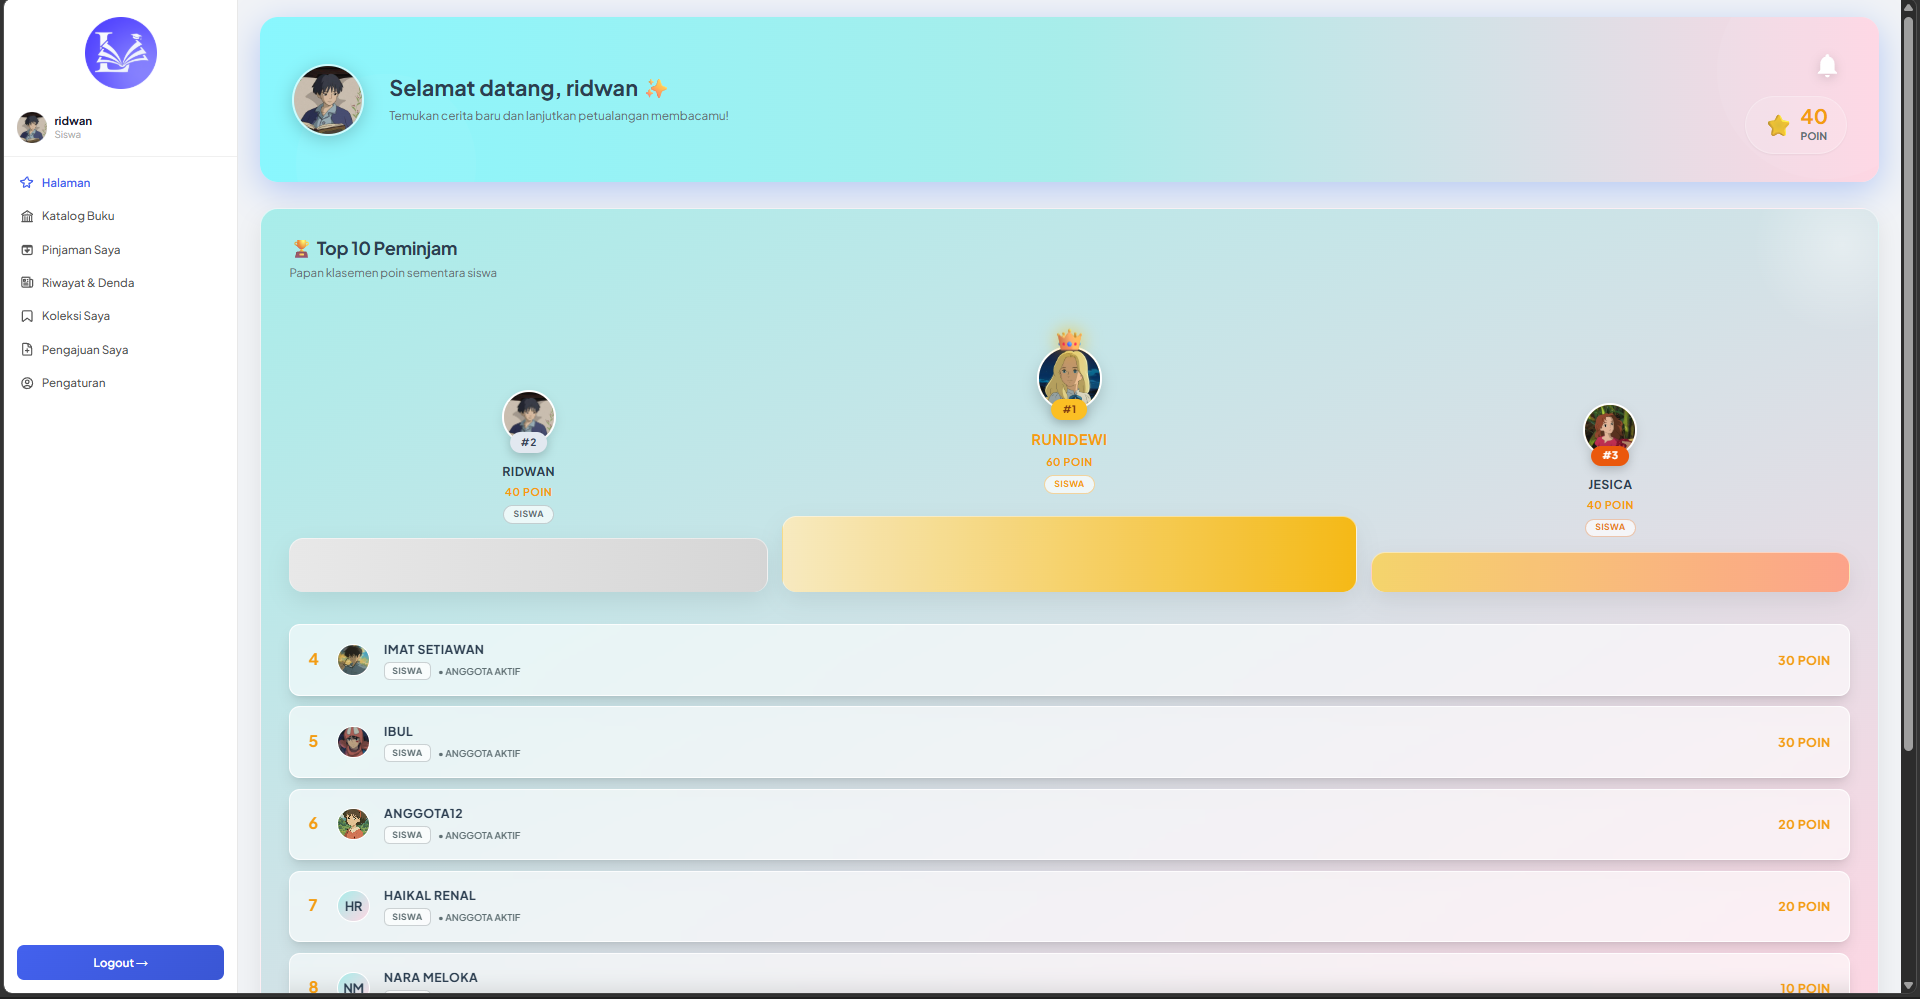
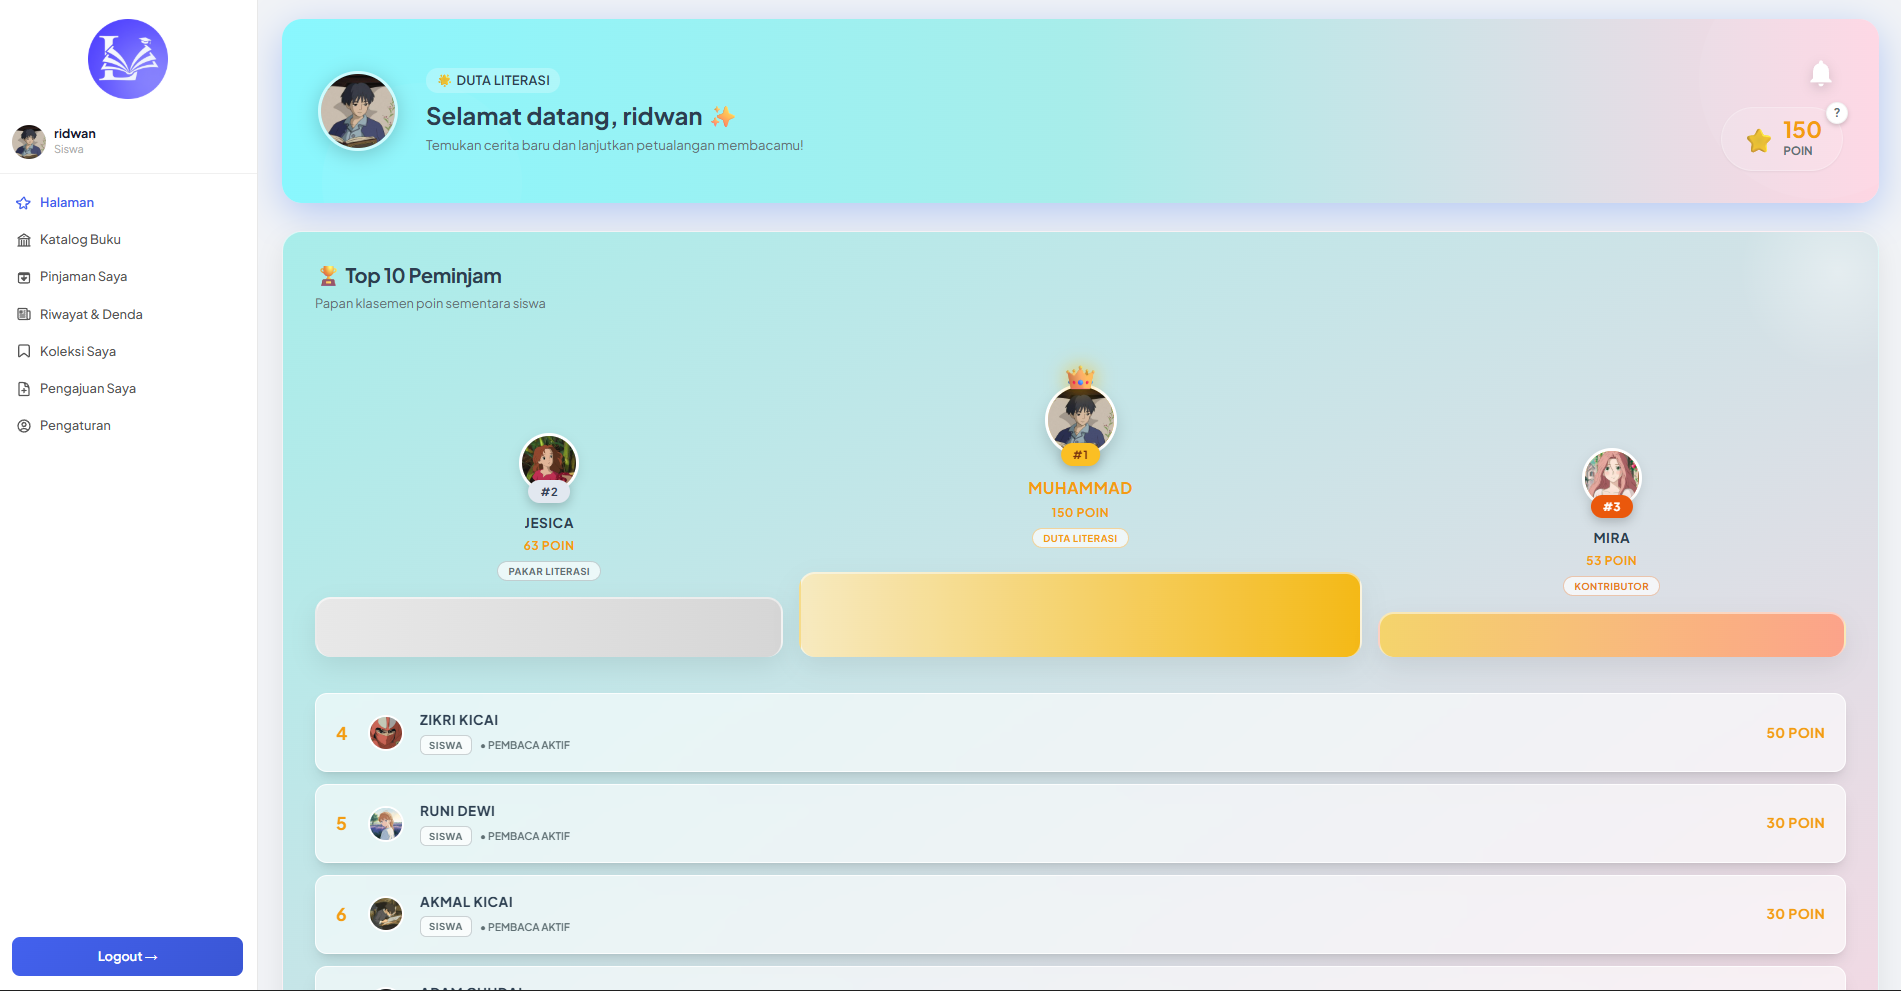
update readme.md

Changed region(s): [[0.0, 0.0, 1.0, 0.999], [0.0, 0.0908, 0.0621, 0.4541], [0.031, 0.0303, 0.0931, 0.1211]]

diff --git a/tmp_verify.php b/tmp_verify.php
@@ -1,0 +1,18 @@
+<?php
+require __DIR__ . '/vendor/autoload.php';
+$app = require_once __DIR__ . '/bootstrap/app.php';
+$app->make('Illuminate\Contracts\Console\Kernel')->bootstrap();
+
+use App\Models\User;
+use App\Models\Borrowing;
+use App\Models\Fine;
+
+$user = User::where('username', 'siswa9')->first();
+$borrowing = Borrowing::find(72);
+$fines = Fine::where('borrowing_id', 72)->get();
+
+echo "Borrowing 72 - Deadline: {$borrowing->deadline} | Status: {$borrowing->status}\n";
+echo "Total fines pada borrowing 72: " . $fines->count() . "\n";
+foreach($fines as $f) {
+    echo "  Fine ID: {$f->id} | Amount: Rp " . number_format($f->amount) . " | Status: {$f->payment_status}\n";
+}

diff --git a/README.md b/README.md
@@ -16,10 +16,10 @@ Sistem ini mensyaratkan tiga jenis hak akses untuk menjaga privasi data dan mela
 **Deskripsi:** Pusat kendali tingkat tertinggi yang diperuntukkan bagi manajer perpustakaan atau staf teknologi informasi sekolah.
 **Keunggulan:** Menyediakan kontrol penuh dan visualisasi data statistik yang komprehensif. Admin dapat mengelola persetujuan KYC siswa (verifikasi anggota), manajemen inventaris buku secara terperinci, mengekspor laporan kinerja ke format PDF menggunakan DomPDF, serta mengelola akses seluruh staf dan member.
 
-### 3. Dashboard Petugas Perpustakaan
-<img src="public/images/readme.md image/dashboard-petugas.png" alt="Dashboard Petugas Perpustakaan" width="100%">
-**Deskripsi:** Ruang kerja khusus untuk pustakawan dalam menangani urusan operasional sirkulasi fisik perpustakaan dari hari ke hari.
-**Keunggulan:** Menyajikan tabel informasi real-time mengenai permintaan peminjaman dan jadwal pengembalian. Petugas dipermudah dengan automasi sistem kalkulasi denda keterlambatan baku, serta pencatatan sirkulasi pergerakan inventaris yang transparan dan akurat.
+### 3. Dashboard Penjaga Perpustakaan
+<img src="public/images/readme.md image/dashboard-petugas.png" alt="Dashboard Penjaga Perpustakaan" width="100%">
+**Deskripsi:** Ruang kerja khusus untuk penjaga dalam menangani urusan operasional sirkulasi fisik perpustakaan dari hari ke hari.
+**Keunggulan:** Menyajikan tabel informasi real-time mengenai permintaan peminjaman dan jadwal pengembalian. Penjaga dipermudah dengan automasi sistem kalkulasi denda keterlambatan baku, serta pencatatan sirkulasi pergerakan inventaris yang transparan dan akurat.
 
 ### 4. Dashboard Siswa (Member)
 <img src="public/images/readme.md image/dashboard-siswa.png" alt="Dashboard Siswa" width="100%">
@@ -30,7 +30,7 @@ Sistem ini mensyaratkan tiga jenis hak akses untuk menjaga privasi data dan mela
 
 ## Fitur-fitur Lengkap Aplikasi
 
-Aplikasi LibSchool membagi rentetan fiturnya menjadi 3 pilar jenis pengguna (Admin, Petugas, dan Siswa). Berikut adalah penjelasan santai dan mudah dipahami untuk semua fitur yang ada:
+Aplikasi LibSchool membagi rentetan fiturnya menjadi 3 pilar jenis pengguna (Admin, Penjaga, dan Siswa). Berikut adalah penjelasan santai dan mudah dipahami untuk semua fitur yang ada:
 
 ### 1. Fitur Umum & Keamanan
 *   **Login & Register Mudah**: Pengguna bisa login dengan aman, siswa baru bisa mendaftar akun sekolah secara mandiri, dan ada fitur *Reset Password* via email kalau sewaktu-waktu lupa sandi.
@@ -38,33 +38,32 @@ Aplikasi LibSchool membagi rentetan fiturnya menjadi 3 pilar jenis pengguna (Adm
 *   **Pembatasan Akses (Aman dari Orang Iseng)**: Fitur keamanan kuat yang mencegah siswa menyusup ke halaman Admin, begitupun sebaliknya. Setiap orang hanya bisa melihat halaman yang memang sesuai porsinya.
 
 ### 2. Fitur Khusus Siswa
-*   **Dasbor Pintar**: Tampilan beranda yang langsung ngasih tahu siswa info penting, seperti "Berapa buku yang sedang saya pinjam?" dan "Berapa hari lagi harus dikembalikan?". Sistem juga otomatis memantau hitungan denda telat secara langsung!
-*   **Katalog Buku Seru**: Tempat siswa bebas mencari dan melihat koleksi buku. Ada fitur filter canggih buat nemuin buku yang persis sedang dicari.
-*   **Papan Peringkat & Gelar Poin (Gamifikasi)**: Bersaing literasi dengan interaktif! Sistem memberikan hadiah Poin bagi siswa yang patuh mengembalikan buku tepat waktu (+10) atau memberikan ulasan/rating buku (+3). Hati-hati, poin akan berkurang (-5) jika kamu menunggak buku. Akumulasi Poin ini akan menempatkan siswa pada *Leaderboard* bergengsi untuk meraih tingkatan gelar mulai dari "Pemula", "Pembaca Aktif", "Kontributor", "Pakar Literasi", hingga "Duta Literasi"!
-*   **Berbagi Ulasan**: Selesai baca? Siswa bisa memberi bintang (*rating*) dan menulis komentar pendapat tentang buku tersebut, agar teman lain termotivasi membacanya.
-*   **Booking Buku dari Rumah**: Punya buku incaran tapi takut dipinjam teman lain? Booking saja lewat HP dari rumah, lalu ambil aman ke perpustakaan sekolah.
-*   **Rak Favorit Kita**: Kalau lagi naksir buku tapi tidak sempat pinjam hari ini, tinggal tandai masuk ke rak "*Favorite*" supaya gampang dicari besok lagi.
-*   **Riwayat Bacaan Personal**: Menampilkan jejak rekam buku apa saja yang pernah sukses dipinjam sampai dikembalikan, hingga nota pelunasan denda juga tercatat abadi.
-*   **Ubah Kartu Tanda Anggota**: Siswa bisa ganti foto pas *Avatar* sendiri dan bahkan mencetak visual grafis "Kartu Anggota Elektronik"-nya.
-*   **Chat Pelayanan (Helpdesk)**: Enggan mendatangi staf perpus untuk komplain pelayanan? Siswa tinggal menulis pesan (*chat*) laporan melalui pusat pengaduan.
+*   **Dasbor Pintar (Hero & Notifikasi)**: Tampilan beranda modern yang menyambut siswa dengan Profil *Hero Card*, akumulasi Poin, serta Gelar Literasi. Dilengkapi Lonceng Notifikasi yang otomatis memberi peringatan cerdas apabila terdapat buku yang mendekati *deadline* pengembalian atau ada tunggakan denda.
+*   **Papan Peringkat & Gelar Poin (Gamifikasi)**: Bersaing literasi dengan interaktif! Sistem memberikan ekstra Poin bagi siswa yang mengembalikan buku terpat waktu (+10) dan memberi rekomendasi ulasan (+3). Namun, poin dipotong (-5) jika menunggak telat. Akumulasi tersebut akan mendobrak *Leaderboard* peringkat siswa guna memperebutkan level gelar dari "Pemula" hingga "Duta Literasi"!
+*   **Katalog Interaktif Terpadu**: Eksplorasi koleksi perpustakaan dengan dukungan *Hero Banner Slider* yang estetik untuk "Buku Terfavorit". Siswa juga dibekali filter pencarian buku yang canggih dan dinamis.
+*   **Sistem Booking Jarak Jauh**: Takut kehilangan buku incaran karena dipinjam teman? Lakukan reservasi (*Booking*) dari rumah hanya lewat layar *smartphone*, dan ambil fisik bukunya di perpustakaan.
+*   **Ruang Opini & Ulasan**: Siswa yang telah tuntas membaca dapat menyematkan *Rating* bintang dan menulis ulasan publik untuk memandu minat baca kawan-kawan sekolah lainnya.
+*   **Rekam Jejak & Sistem Pembayaran Denda Digital**: Menyimpan dengan rapi rekam historis peminjaman. Aplikasi juga mengakomodasi penyelesaian denda telat; siswa diwajibkan mengunggah *Proof of Payment* (Bukti Pembayaran) langsung lewat aplikasi untuk divalidasi oleh pihak perpustakaan.
+*   **Formulir Pengajuan Buku Baru**: Tidak menemukan buku yang pas? Siswa punya hak prerogatif untuk mengirim draf proposal pengadaan buku baru yang nantinya akan ditinjau untuk dibeli oleh Penjaga perpustakaan.
+*   **Rak Favorit Pribadi & E-Card**: Simpan buku idaman ke sudut "*Favorite*" agar mudah dicari kelak. Mengunduh/mencetak Kartu Tanda Anggota Library (*E-Card*) dapat dilakukan secara digital dengan mudah.
+*   **Pengaturan Profil Lengkap**: Siswa diberikan kendali privasi lewat menu pengaturan untuk meng-update informasi akun pribadi, bebas mengganti foto *Avatar* mereka, hingga merubah kunci kata sandi (*reset password*) demi keamanan ganda secara mandiri.
 
-### 3. Fitur Khusus Petugas Perpustakaan
-*   **Persetujuan Pinjam Buku (Klik Tombol)**: Tempat petugas memeriksa kode booking dari anak-anak (Contoh: `BK-001`). Setelah anak mengambil fisik bukunya di meja perpus, petugas tinggal tekan "Konfirmasi" dan sah sudah dipinjam!
-*   **Kasir Denda Berjalan**: Disaat mendata anak yang mengembalikan buku melewati hari batas waktu (*deadline*), sistem yang akan memikirkan hitungan denda dan seketika langsung menghardik muncul di hadapan layar petugas otomatis.
+### 3. Fitur Khusus Penjaga Perpustakaan
+*   **Persetujuan Pinjam Buku (Klik Tombol)**: Tempat penjaga memeriksa kode booking dari anak-anak (Contoh: `BK-2026403-0001`). Setelah anak mengambil fisik bukunya di meja perpus, penjaga tinggal tekan "Konfirmasi" dan sah sudah dipinjam!
+*   **Kasir Denda Berjalan**: Disaat mendata anak yang mengembalikan buku melewati hari batas waktu (*deadline*), sistem yang akan memikirkan hitungan denda dan seketika langsung menghardik muncul di hadapan layar penjaga otomatis.
 *   **Catatan Aktivitas Staf Harian**: Rangkuman arus buku apa saja di luar rak, dan ada berapa buku yang tersimpan siang itu.
 *   **Buka Surat Keluhan (Inbox)**: Menerima, membaca, dan menyelesaikan laporan pertolongan yang masuk dari aplikasi si anak.
+### 4. Fitur Spesial Administrator (Kepala Perpustakaan)
+*   **Pusat Komando (Dashboard Analitik)**: Visualisasi level eksekutif yang merangkum keseluruhan total pergerakan koleksi buku, laju pendaftaran siswa baru, hingga metrik laporan aktif dalam bentuk *Stat Cards* komprehensif.
+*   **Manajemen Pengguna (CRUD)**: Otoritas mutlak untuk mencipta akun Penjaga/Siswa baru, memperbaiki rincian kesalahan alamat/biodata, hingga fitur "*Reset Password*" paksa bagi pengguna yang terkunci.
+*   **Portal Verifikasi Anggota (KYC Member)**: Tameng pertahanan dari pengunjung bodong. Siswa yang mendaftar secara daring belum diizinkan "*Booking*" buku sebelum berkasnya mendapatkan "Centang Verifikasi" manual dari Admin.
+*   **Kendali Hak Akses Khusus (Role & Permission)**: Kapabilitas luar biasa untuk mengubah peranan staf (*Downgrade* penjaga menjadi siswa) seketika! Admin dapat memecah tugas administratif dengan memberikan matriks perizinan modul (*Permission*) spesifik bagi staf tertentu.
 
-### 4. Fitur Pemilik Toko (Administrator)
-*   **Pantauan Semesta (Dasbor)**: Seluruh gerak operasional perpustakaan tergambar rapi lewat statistik jumlah di layar ini.
-*   **Kekuasaan Mutlak Pengguna**: Admin memegang kendali menambah petugas baru tanpa batas, membekukan/memecat akun yang jelek, mengganti isi bio info orang lain, atau merubah sandi orang yang susah masuk.
-*   **Kunci Pintu (Validasi Member Baru)**: Fitur ampuh menghindari siswa bodong masuk. Setiap pendaftar baru tidak bisa main pesan (*Booking*) buku tanpa verifikasi status "Boleh Pinjam" dari jari Sang Admin di layar validasi. Bot palsu tidak akan bisa hidup disini.
-*   **Sulap Kekuatan Peran**: Hanya butuh 1 klik admin untuk merendahkan staf penjaga menjadi peran anak siswa standar, kejam dan dinamis.
-
-**Akses Fitur Kolaborasi Pekerjaan (Bisa Dilakukan Admin + Petugas)**:
-*   **Mengisi Rak Buku Utama**: Kegiatan merapikan laci-laci etalase dari nama judul buku, menyusun buku fiksi berseri, dan membagi rak Kategori A / B.
-*   **Verifikasi Tutup Denda Hutang**: Menekan sah pelunasan tagihan anak yang membawa uang koin denda dan memastikan rekamnya terganti menjadi "Lunas".
-*   **Sulap Dokumen Laporan**: Cukup sentuh cetak, triliunan mili catatan historis orang yang lalang pinjam di sulap rekayasa sistem berubah menjadi Kertas elektronik PDF (Buku Laporan Penjaga).
-
+### 5. Pengelolaan Sirkulasi & Inventaris (Hak Akses: Admin & Penjaga)
+*   **Gudang Inventaris Buku Terpadu**: Fasilitas melengkapi profil beribu literatur secara mendalam, dari input Nomor Standar (ISBN), Sampul Muka (*Display Cover*), Sinopsis Cerita, Info Penerbit, Tahun Keluar, hingga pemetaan Posisi Rak Asli (*Location*).
+*   **Katalogisasi Ganda (Kategori & Seri Buku)**: Algoritma penyusunan maju yang tak hanya bertumpu pada "Filter Kategori" (misal: *Novel*, *Ensiklopedia*), namun perpustakaan dapat mengikat koleksi novel bernomor urut ke dalam himpunan "*Book Series*".
+*   **Meja Verifikasi Bukti Denda**: Fitur ruang rekonsiliasi yang disiapkan untuk staf dalam melakukan perbandingan antara struk foto Bukti Bayar Digital (*Proof of Payment*) lampiran siswa melawan besaran denda tagihan kasir sebelum dinyatakan lunas tuntas.
+*   **Pembuat Laporan Otomatis (Generator PDF)**: Dengan satu kali sentuhan tombol konfigurasi bulan/tahun kalender, sistem meringkas ribuan rekam jejak aktivitas sirkulasi dan mencetak dokumen legal elektronik format **PDF** yang menawan sebagai bahan laporan pengesahan bulanan.
 ---
 
 ## Spesifikasi Teknis
